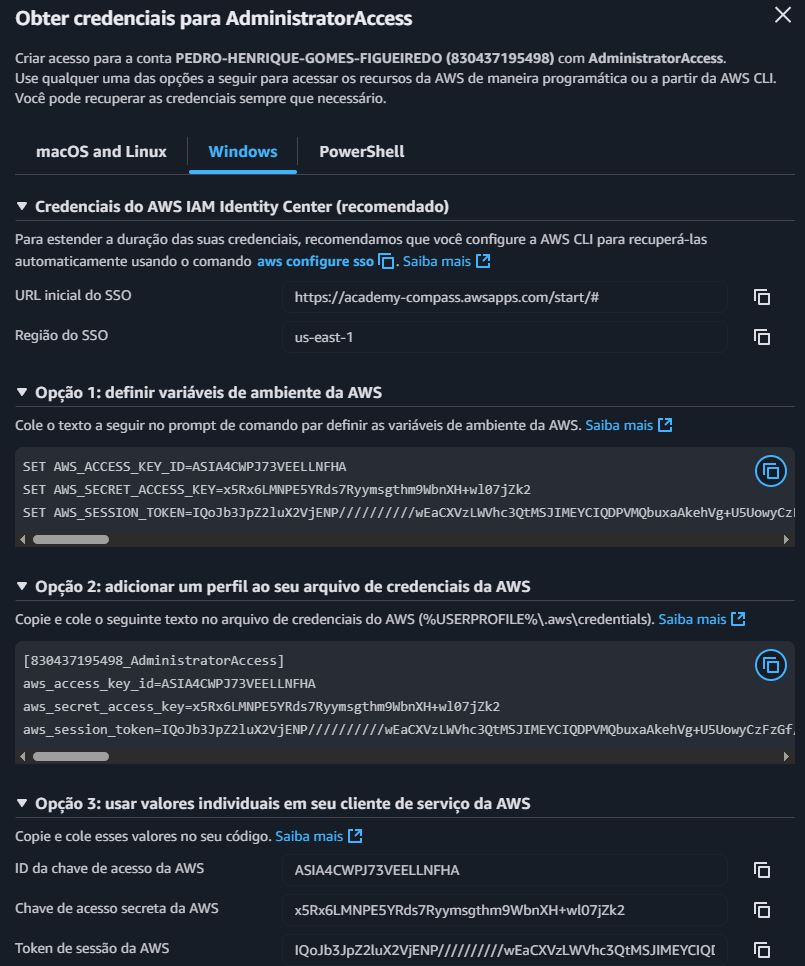
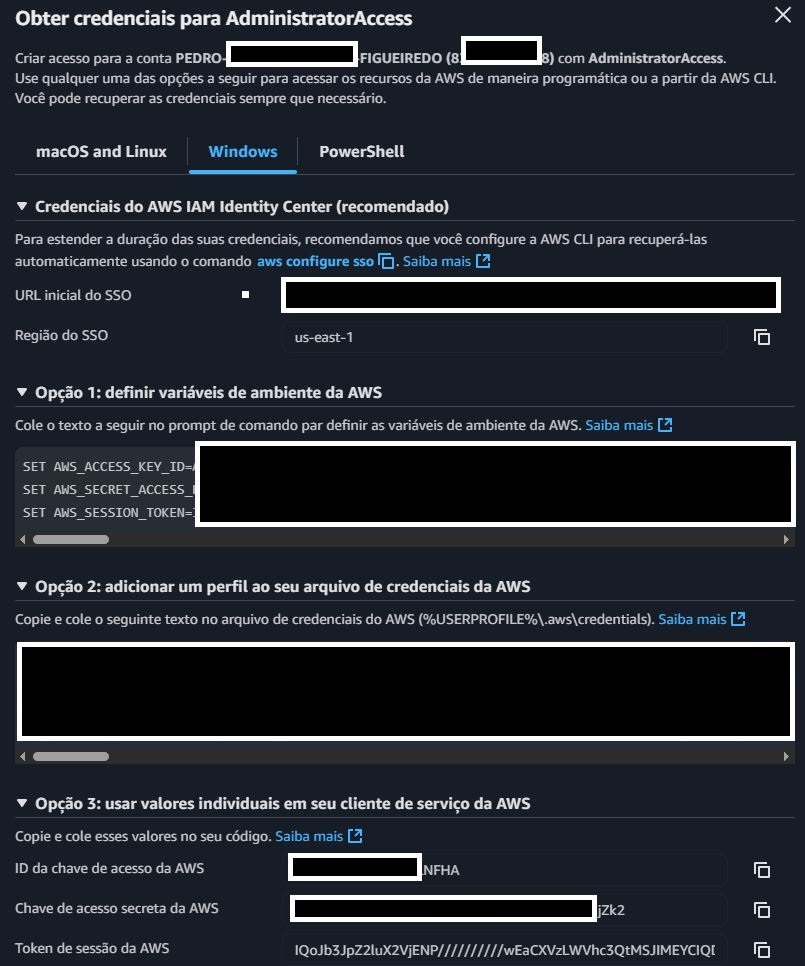
CensuraDeDados chaves, e realização do readme do desafio

diff --git a/Sprint4/Desafio/README.md b/Sprint4/Desafio/README.md
@@ -5,10 +5,170 @@
 
 ## Etapa 1
 
+O objetivo da Etapa1 do Desafio era realizar um código em Python utilizando a biblioteca boto3 para realizar a conexão com a conta AWS, realizar a criação de um bucket, e dentro dele, fazer o upload do arquivo CSV que iremos usar para análises posteriores
+
+O arquivo Jupyter desta etapa pode ser acesso por aqui:
+
+[JupyterEtapa1](../Desafio/Etapa1/etapa1.ipynb)  <--
+
+- Para começar a Etapa, é necessário configurar no nosso terminal as chaves de acesso da conta AWS que iremos usar, para realizar a conexão, para isso, acessamos nossa conta AWS e clicamos na seção "Chaves de Acesso"
+
+![PortalAcesso](../Evidencias/Desafio/Etapa1/PortalAcessoAWS.JPG)
+
+**Observação**: Chaves de Acesso da AWS são temporárias e são geradas toda vez que clicamos na seção, logo, é importante manter a janela da seção de Chaves de Acesso aberta, pois ao fechá-la, as chaves são desativadas
+
+- Com a seção aberta, iremos utilizar a terceira opção de acesso à conta, que nos fornece de forma separada a ID da Chave, a Chave Secreta e o Token de Acesso, além disso iremos usar a região do SSO (us-east-1)
+
+![ChavesDeAcesso](../Evidencias/Desafio/Etapa1/ChavesDeAcesso.JPG)
+
+- Com as chaves em mãos, abrimos nosso terminal windows, ou no meu caso, um terminal no VSCode e utilizamos o seguinte comando para criar um perfil ("pdroozi") e dedicar à ele essas chaves, quando formos realizar a conexão, é só referenciar o perfil, e assim, conseguimos extrair as chaves de forma automática
+
+![InsercaoChaves](../Evidencias/Desafio/Etapa1/InsertChaveAcesso.JPG)
+
+- Com o perfil configurado, e a chave sincronizada à ele, podemos partir para o código
+
+![CodigoEtapa1](../Evidencias/Desafio/Etapa1/CriacaoBucketS3.JPG)
+
+- O código se inicia com a importação da biblioteca boto3, previamente instalada pelo terminal usando um "pip install boto3"
+
+- Nesse momento algumas variáveis que serão frequentes durante o desafio são criadas:
+
+  - A "session", que utiliza o boto3 para se conectar ao perfil criado anteriormente
+
+  - O "s3_cliente", que cria uma conexão do nosso perfil cliente que possui as chaves de acesso da conta (pdroozi) com a ferramenta que queremos trabalhar ("s3")
+
+  - O "bucket-name", que contém o nome do nosso bucket que será criado - e posteriormente referenciado - no nosso S3
+
+  - O "file_name", que possui o nome do arquivo CSV que iremos fazer o upload nessa etapa após a criação do bucket
+
+  - O "local_path", que é o caminho para acessar o nosso arquivo CSV, que nesse caso, temos que subir um nível na organização de pasta, ir na subpasta data, e dentro dela, acessar o arquivo buscado "ProUniTrienio.csv"
+
+- O s3_cliente, usa a função create.bucket do boto3, usando a variavel bucket_name e cria dentro do S3 da nossa conta (que estava vazio), um bucket novo
+
+![S3Vazio](../Evidencias/Desafio/Etapa1/s3Vazio.JPG)
+
+![S3ComBucket](../Evidencias/Desafio/Etapa1/ConfirmacaoCriacaoBucketS3.JPG)
+
+- Pra finalizar a Etapa1, o upload do arquivo CSV é feito utilizando a função upload.file do boto3, usando as variaveis local_path (para encontrar o arquivo), bucket_name (nome do bucket aonde será inserido o arquivo) e file_name (o nome que o arquivo terá no bucket, que no caso, será o mesmo, mas pode ser diferente se assim desejar)
+
+![UploadArquivo](../Evidencias/Desafio/Etapa1/ConfirmacaoUploadCSVBucketS3.JPG)
+
+Assim, concluímos a Etapa1, nosso bucket foi criado, e tem como único objeto no momento, o arquivo CSV que utilizaremos na etapa posterior.
+
 ## Etapa 2
 
-### Análise 1
+O objetivo da Etapa2 do Desafio é realizar um código em python, que utilizando a biblioteca boto3, leia os dados do arquivo CSV que se localiza dentro do bucket no S3 da nossa conta AWS. Assim, realizaremos três análises com esses dados, e o resultado delas (seja um csv, um gráfico) deve ser inserido de volta dentro do bucket
 
-### Análise 2
+Antes de iniciar as análises, iremos montar a estrutura de um código que será usada em todas as análises, voltado à leitura do arquivo CSV, e normalização dos dados, ela é composta por:
 
-### Análise 3
+- Bibliotecas:
+
+  - Boto3 para conexão com a AWS
+  - AwsWrangler para leitura dos dados pelo S3
+  - Pandas para manipulação dos dados
+  - MatPlotLib para visualição dos dados por gráficos
+  - UnicodeData para normalização dos dados com retirada de acentos e outros caracteres especiais
+
+- A "session", que utiliza o boto3 para se conectar ao perfil criado anteriormente
+
+- O "s3_cliente", que cria uma conexão do nosso perfil cliente que possui as chaves de acesso da conta (pdroozi) com a ferramenta que queremos trabalhar ("s3")
+
+- O "bucket-name", que contém o nome do nosso bucket que será criado - e posteriormente referenciado - no nosso S3
+
+- O "file_name", que possui o nome do arquivo CSV que iremos fazer o upload nessa etapa após a criação do bucket
+
+- O "local_path", que é o caminho para acessar o nosso arquivo CSV, que nesse caso, temos que subir um nível na organização de pasta, ir na subpasta data, e dentro dela, acessar o arquivo buscado "ProUniTrienio.csv"
+
+- O "file_path_s3" que é o caminho para acessar o arquivo csv dentro do bucket
+
+- O "df" que é o dataframe criado pela função read.csv que utiliza as variáveis **file_path_s3** e **session** para ler o arquivo CSV dentro do bucket e gerar um dataframe que é armazenado na variável
+
+- O "df.columns" que utiliza a biblioteca **unicode** para retirar todos os caracteres especiais dentro do formado **NFKD**, utiliza a função **upper** para padronizar todas as colunas em maiúsculo, e **strip** para tirar todos os espaços vazios nas extremidados, facilitando a consulta
+
+### Teste
+
+- Código usado de teste para a conexão com o AWS, fazendo uma consulta simples ao dataframe puxando o head do csv, ou seja, as 5 primeiras linhas
+
+![Teste](../Evidencias/Desafio/Etapa2/testeConexaoComDfTeste.JPG)
+
+### Análise 1 - Geográfica
+
+- É usado a função **value_counts** na coluna "região_beneficiario_bolsa para fazer somar a quantidade de ocorrências do nome de cada região na coluna
+
+- O plot usado é o pie (torta)
+
+- A função savefig é chamada para salvar os arquivos resultantes (um CSV e um PNG) localmente
+
+- A função boto3 **upload_file** é chamada para fazer o upload no bucket dos dois arquivos resultantes da Análise 1
+
+![Analise1](../Evidencias/Desafio/Etapa2/ExecucaoAnalise1.JPG)
+
+![Output1](../Evidencias/Desafio/Etapa2/OutputAnalise1.JPG)
+
+![ConfirmacaoAnalise1](../Evidencias/Desafio/Etapa2/ConfirmacaoExecucaoAnalise1.JPG)
+
+- Podemos entender pelo resultado da análise que o Sudeste concentra quase metade do destino das bolsas, talvez evidenciando uma desigualdade regional no acesso ao Prouni com Norte e Centro-Oeste sendo subrepresentados, mesmo considerando população
+
+- Pra aprofundar a análise, seria interessante correlacionar com outros dataframes, com a população de cada região, número de instituições privadas e públicas, até mesmo o PIB/RendaMédia da região
+
+Acesse aqui os outputs da Análise:
+
+- [CSVAnali1](../Desafio/saida/distribuicao_bolsas_por_regiao_trienio.csv)
+
+- [PNGAnali1](../Desafio/saida/distribuicao_bolsas_por_regiao_trienio.png)
+
+### Análise 2 - Social / Etária
+
+- Cria uma função que recebe uma variável idade do tipo int que é agrupada em subgrupos de acordo com condições
+
+- É usado a função datetime na coluna "nascimento_beneficiario_bolsa" para coletar apenas o ano em que o bolsista nasceu
+
+-Para descobrir a idade do bolsista no ano em que recebeu a bolsa, temos que criar uma coluna chamada "faixa etaria" que ela é o resultado da subtração entre o ano em que a pessoa recebeu a bolsa (2017, 2018 ou 2019) e o ano de nascimento dela
+
+- Essa coluna resultante é aplicada na função criada anteriormente, e os resultados são agrupados em diferentes grupos
+
+- o Dataframe é agrupado pelas colunas do ano de concessão da bolsa, e a coluna recém criada
+
+- Um plot de barras é utilizado nessa análise
+
+- A função savefig é chamada para salvar os arquivos resultantes (um CSV e um PNG) localmente
+
+- A função boto3 **upload_file** é chamada para fazer o upload no bucket dos dois arquivos resultantes da Análise 2
+
+![Analise2](../Evidencias/Desafio/Etapa2/ExecucaoAnalise2.JPG)
+
+![Output2](../Evidencias/Desafio/Etapa2/OutputAnalise2.JPG)
+
+![ConfirmacaoAnalise2](../Evidencias/Desafio/Etapa2/ConfirmacaoExecucaoAnalise2.JPG)
+
+- Podemos entender pelo resultado da Análise 2 que o programa é grandemente dedicado à jovens recém-saídos do ensino médio e recém adultos no início da faculdade
+
+- O valor significativo de pessoas acima de 25 e 30 anos msotra que o programa também têm a inclusão de pessoas mais velhas que querem e estão podendo retornar aos estudos
+
+- [CSVAnali2](../Desafio/saida/distribuicao_bolsas_por_faixa_etaria_trienio.csv)
+
+- [PNGAnali2](../Desafio/saida/distribuicao_bolsas_por_faixa_etaria_trienio.png)
+
+### Análise 3 - Demográfica
+
+- É criado um dataframe que recebe o agrupamento via função **groupby** da coluna de ano de concessão da bolsa e raça do beneficiário
+
+- O plot usado é o de linhas
+
+- A função savefig é chamada para salvar os arquivos resultantes (um CSV e um PNG) localmente
+
+- A função boto3 **upload_file** é chamada para fazer o upload no bucket dos dois arquivos resultantes da Análise 3
+
+![Analise3](../Evidencias/Desafio/Etapa2/ExecucaoAnalise3.JPG)
+
+![Output3](../Evidencias/Desafio/Etapa2/OutputAnalise3.JPG)
+
+![ConfirmacaoAnalise3](../Evidencias/Desafio/Etapa2/ConfirmacaoExecucaoAnalise3.JPG)
+
+- Podemos entende pelo resultado da Análise 3 que existem tendências raciais no acesso ao ProUni, com um pouco aumento da inclusão racial de grupos históricamente marginalizados (como pretos, pardos e indígenas) no programa
+
+- Com o aumento de grupos marginalizados e a diminuição da adoção de Brancos ao programa, pode-se inferir um movimento do governo de aumento da equidade racianl no acesso ao ensino superior, com políticas afirmativas que por esses dados, parecem estar surgindo efeito
+
+- [CSVAnali3](../Desafio/saida/distribuicao_bolsas_por_raca_trienio.csv)
+
+- [PNGAnali3](../Desafio/saida/distribuicao_bolsas_por_raca_trienio.png)
